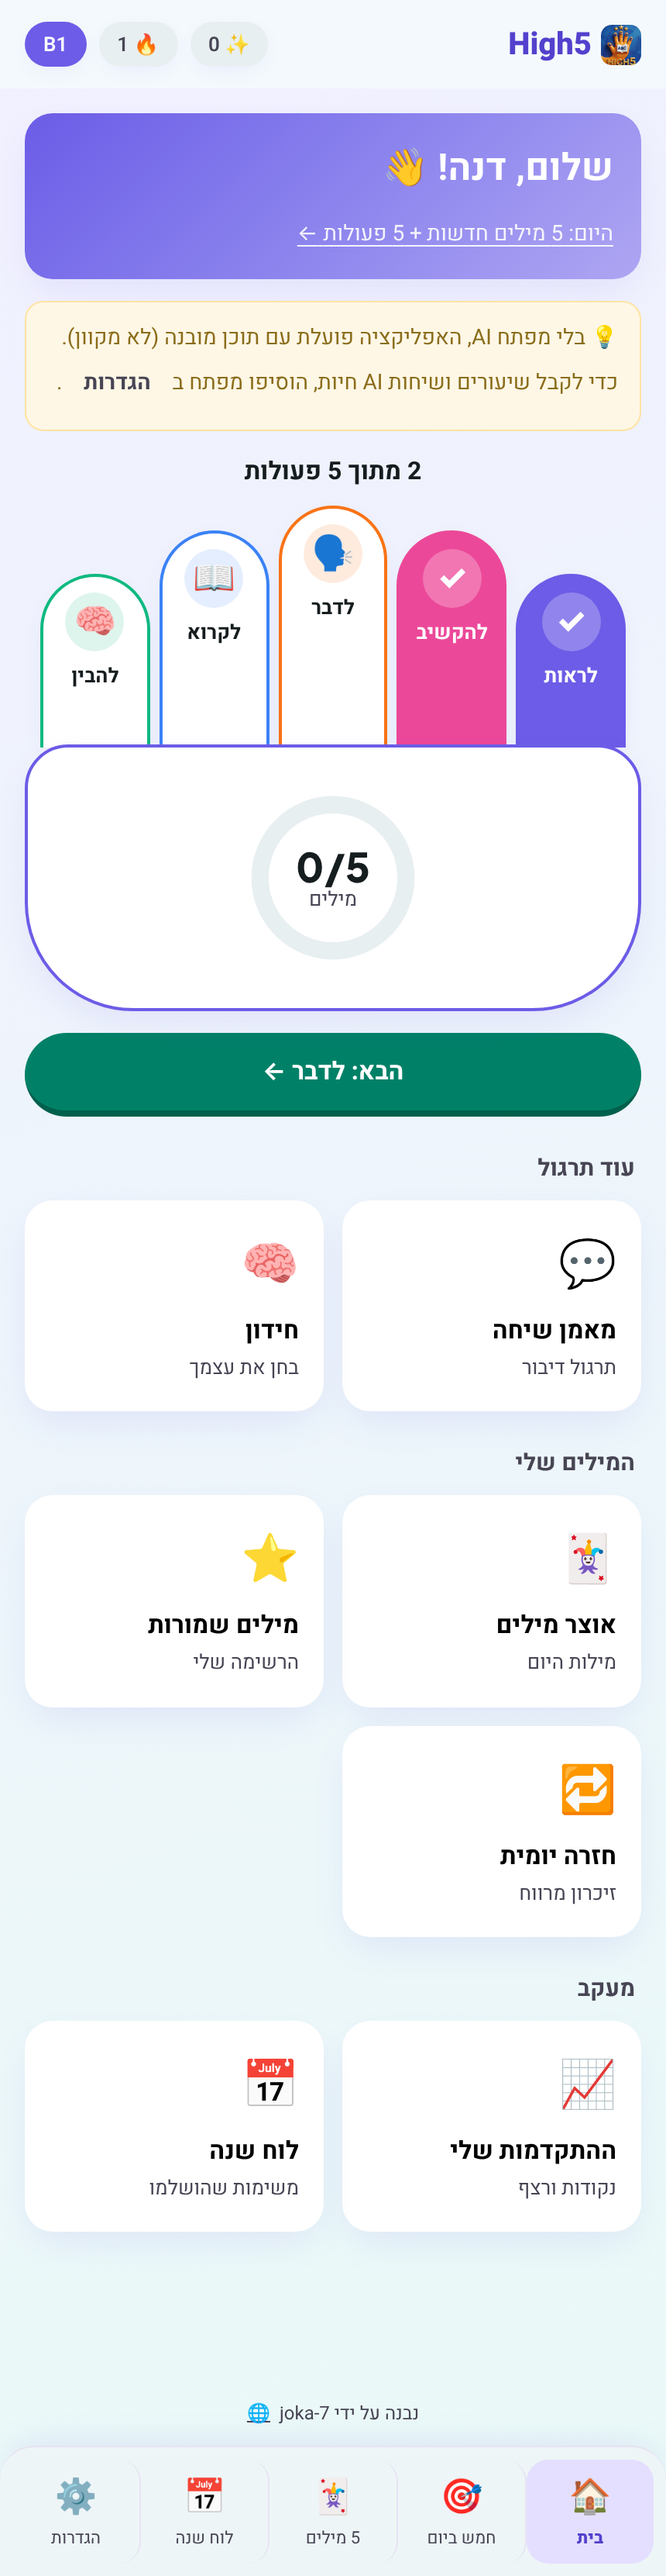
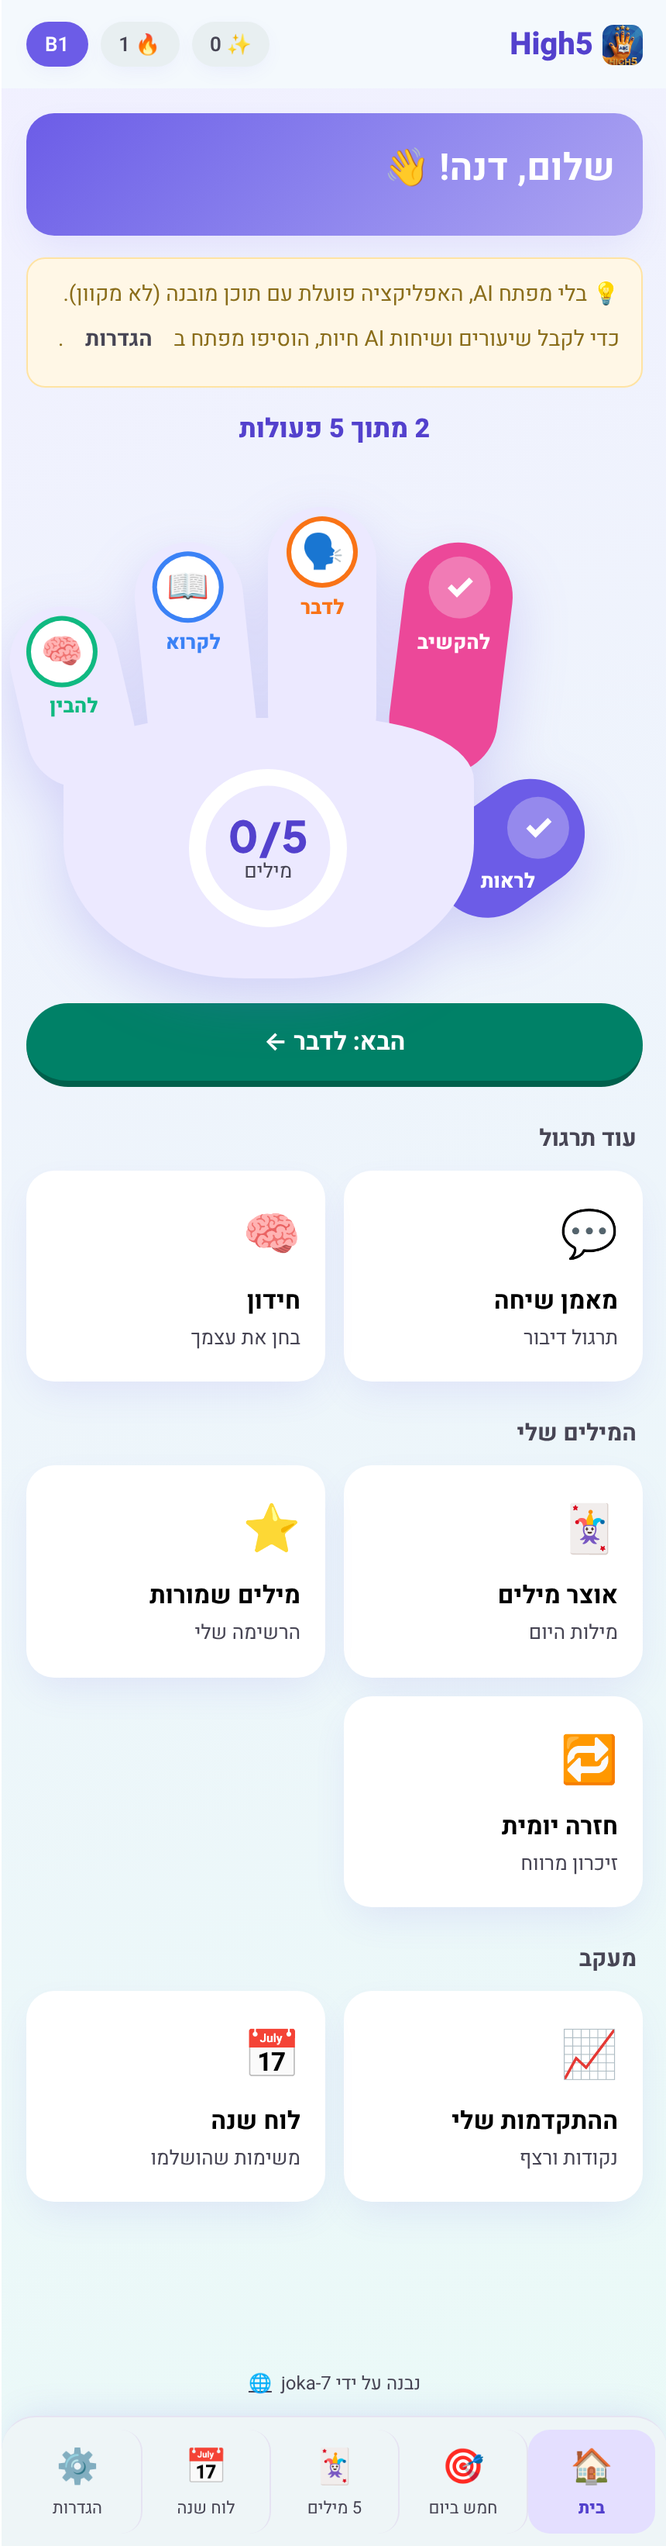
feat(dashboard): redraw the hand as one soft silhouette
Fingers and palm share a fill and a single drop-shadow, the fingers fan
out with a real thumb, and fingertips carry the operation color. Drops the
greeting card's "today" link, which the hand now says, so the hand sits
higher on screen.

Claude-Session: https://claude.ai/code/session_01H3QtqCsqNJNfB6TbXzKx6G

diff --git a/src/index.css b/src/index.css
@@ -356,119 +356,168 @@ button {
   border-color: var(--skill-speaking);
 }
 
-/* --- Hand board (dashboard): five fingers = five operations, palm = the day's words --- */
+/* --- Hand board (dashboard): five fingers = five operations, palm = the day's words ---
+ * One silhouette: fingers and palm share a fill and a single drop-shadow on
+ * the container, so the shadow follows the union of all shapes. Geometry is
+ * absolute and direction-independent (dir=ltr); the thumb is the first
+ * operation and sits on the right, matching the RTL reading order. */
 .hand-board {
-  margin-bottom: 20px;
+  margin-bottom: 22px;
 }
 
 .hand-progress {
   text-align: center;
-  font-weight: 700;
-  margin: 0 0 10px;
+  font-weight: 800;
+  font-size: 17px;
+  margin: 0 0 6px;
+  color: var(--primary-strong);
 }
 
 .hand {
-  display: flex;
-  flex-direction: column;
-  align-items: stretch;
+  --hand-fill: #ece9ff;
+  position: relative;
+  direction: ltr;
+  width: 100%;
+  max-width: 390px;
+  height: 336px;
+  margin: 0 auto;
+  filter: drop-shadow(0 14px 18px rgba(108, 92, 231, 0.22));
+}
+
+html[data-theme="dark"] .hand {
+  --hand-fill: #2a2f45;
+  filter: drop-shadow(0 14px 18px rgba(0, 0, 0, 0.45));
 }
 
 .fingers {
-  display: flex;
-  align-items: flex-end;
-  gap: 6px;
-  padding: 0 10px;
+  display: contents;
 }
 
 .finger {
   --finger-color: var(--primary);
-  flex: 1 1 0;
-  min-width: 0;
+  position: absolute;
+  bottom: 120px;
+  width: 18%;
   display: flex;
   flex-direction: column;
   align-items: center;
-  justify-content: flex-start;
   gap: 6px;
-  padding: 10px 2px 12px;
-  border: 2px solid var(--finger-color);
-  border-bottom: none;
-  border-radius: 999px 999px 8px 8px;
-  background: var(--surface);
+  padding: 9px 2px 0;
+  border-radius: 999px;
+  background: var(--hand-fill);
   color: var(--text);
-  box-shadow: var(--shadow-sm);
-  transition: transform 0.1s ease, background 0.2s ease;
-  position: relative;
+  transform-origin: 50% 100%;
+  transition: transform 0.15s ease, background 0.25s ease;
   z-index: 1;
 }
 
 .finger:active {
-  transform: scale(0.95);
+  transform: var(--finger-rot) scale(0.95);
 }
 
-.finger-see {
-  --finger-color: var(--primary);
-  min-height: 112px;
-}
-.finger-listen {
-  --finger-color: var(--skill-listening);
-  min-height: 140px;
-}
-.finger-talk {
-  --finger-color: var(--skill-speaking);
-  min-height: 156px;
+/* left → right in physical space: pinky, ring, middle, index, thumb */
+.finger-understand {
+  --finger-color: var(--skill-review);
+  --finger-rot: rotate(-13deg);
+  left: 1%;
+  height: 118px;
+  bottom: 124px;
 }
 .finger-read {
   --finger-color: var(--skill-reading);
-  min-height: 140px;
+  --finger-rot: rotate(-6deg);
+  left: 20%;
+  height: 150px;
+  bottom: 132px;
 }
-.finger-understand {
-  --finger-color: var(--skill-review);
-  min-height: 112px;
+.finger-talk {
+  --finger-color: var(--skill-speaking);
+  --finger-rot: rotate(0deg);
+  left: 39%;
+  height: 168px;
+  bottom: 136px;
+}
+.finger-listen {
+  --finger-color: var(--skill-listening);
+  --finger-rot: rotate(7deg);
+  left: 58%;
+  height: 150px;
+  bottom: 132px;
+}
+.finger-see {
+  --finger-color: var(--primary);
+  --finger-rot: rotate(55deg);
+  left: 59%;
+  height: 104px;
+  bottom: 54px;
+}
+
+.finger {
+  transform: var(--finger-rot);
 }
 
 .fingertip {
-  width: 38px;
-  height: 38px;
+  width: 40px;
+  height: 40px;
   border-radius: 50%;
   display: grid;
   place-items: center;
   font-size: 22px;
   font-weight: 800;
-  background: color-mix(in srgb, var(--finger-color) 14%, var(--surface));
+  background: #fff;
+  box-shadow: 0 0 0 3px var(--finger-color);
+  /* keep emoji upright inside a rotated finger */
+  transform: rotate(calc(var(--finger-tilt, 0deg) * -1));
 }
 
 .finger-label {
   font-size: 13px;
-  font-weight: 700;
+  font-weight: 800;
+  color: var(--finger-color);
+  transform: rotate(calc(var(--finger-tilt, 0deg) * -1));
+}
+
+.finger-understand { --finger-tilt: -13deg; }
+.finger-read { --finger-tilt: -6deg; }
+.finger-listen { --finger-tilt: 7deg; }
+.finger-see { --finger-tilt: 55deg; }
+
+/* The thumb's body is partly under the palm, so shift its label out. */
+.finger-see .finger-label {
+  transform: translateX(16px) rotate(-55deg);
 }
 
 .finger-done {
   background: var(--finger-color);
-  color: #fff;
 }
 
 .finger-done .fingertip {
-  background: rgba(255, 255, 255, 0.25);
+  background: rgba(255, 255, 255, 0.28);
+  box-shadow: none;
+  color: #fff;
+}
+
+.finger-done .finger-label {
   color: #fff;
 }
 
 .palm {
-  position: relative;
+  position: absolute;
   z-index: 2;
-  margin-top: -2px;
+  left: 5%;
+  right: 27%;
+  bottom: 0;
+  height: 168px;
   display: grid;
   place-items: center;
-  padding: 22px 0;
-  border: 2px solid var(--primary);
-  border-radius: 28px 28px 70px 70px;
-  background: var(--surface);
-  box-shadow: var(--shadow);
+  border-radius: 34% 34% 44% 44% / 24% 24% 52% 52%;
+  background: var(--hand-fill);
   color: var(--text);
 }
 
 .palm-ring {
-  width: 124px;
-  height: 124px;
+  width: 120px;
+  height: 120px;
   transform: rotate(-90deg);
   grid-area: 1 / 1;
 }
@@ -480,6 +529,10 @@ button {
 }
 
 .palm-ring-track {
+  stroke: #fff;
+}
+
+html[data-theme="dark"] .palm-ring-track {
   stroke: var(--surface-3);
 }
 
@@ -498,9 +551,10 @@ button {
 }
 
 .palm-count {
-  font-size: 26px;
+  font-size: 28px;
   font-weight: 800;
   font-family: var(--font-en);
+  color: var(--primary-strong);
 }
 
 .palm-sub {
@@ -509,15 +563,15 @@ button {
 }
 
 .palm-emoji {
-  font-size: 40px;
+  font-size: 42px;
 }
 
-.palm-done {
-  border-color: var(--accent);
+.palm-done .palm-count {
+  color: var(--accent);
 }
 
 .hand-next {
-  margin-top: 14px;
+  margin-top: 16px;
 }
 
 @keyframes hand-wave {
@@ -1444,21 +1498,6 @@ pre.explanation-text {
 .words-box {
   border-inline-start: 4px solid var(--accent);
 }
-.hero-today {
-  background: none;
-  border: 0;
-  padding: 0;
-  margin-top: 6px;
-  font: inherit;
-  font-size: 14px;
-  color: inherit;
-  opacity: 0.9;
-  text-align: start;
-  cursor: pointer;
-  text-decoration: underline;
-  text-underline-offset: 3px;
-}
-
 .footer-links {
   display: flex;
   justify-content: center;

diff --git a/src/screens/Dashboard.tsx b/src/screens/Dashboard.tsx
@@ -1,7 +1,6 @@
 import { useLingo } from "../store/useLingo";
 import { isAIReady } from "../services/ai";
 import { usePwaInstall } from "../services/pwa";
-import { isReviewDay, WEEK_WORD_COUNT, WORDS_PER_DAY } from "../utils/cycle";
 import HandBoard from "../components/HandBoard";
 import Tile, { type TileSpec } from "../components/Tile";
 import type { Screen } from "../types";
@@ -48,12 +47,6 @@ export default function Dashboard({ go }: { go: (s: Screen) => void }) {
     <div>
       <div className="card hero-card">
         <h2>שלום, {progress.userName}! 👋</h2>
-        <button className="hero-today" onClick={() => go("missions")}>
-          {isReviewDay()
-            ? `סוף שבוע — חוזרים על ${WEEK_WORD_COUNT} מילות השבוע`
-            : `היום: ${WORDS_PER_DAY} מילים חדשות + 5 פעולות`}{" "}
-          ←
-        </button>
       </div>
 
       {levelUpNotice && (
